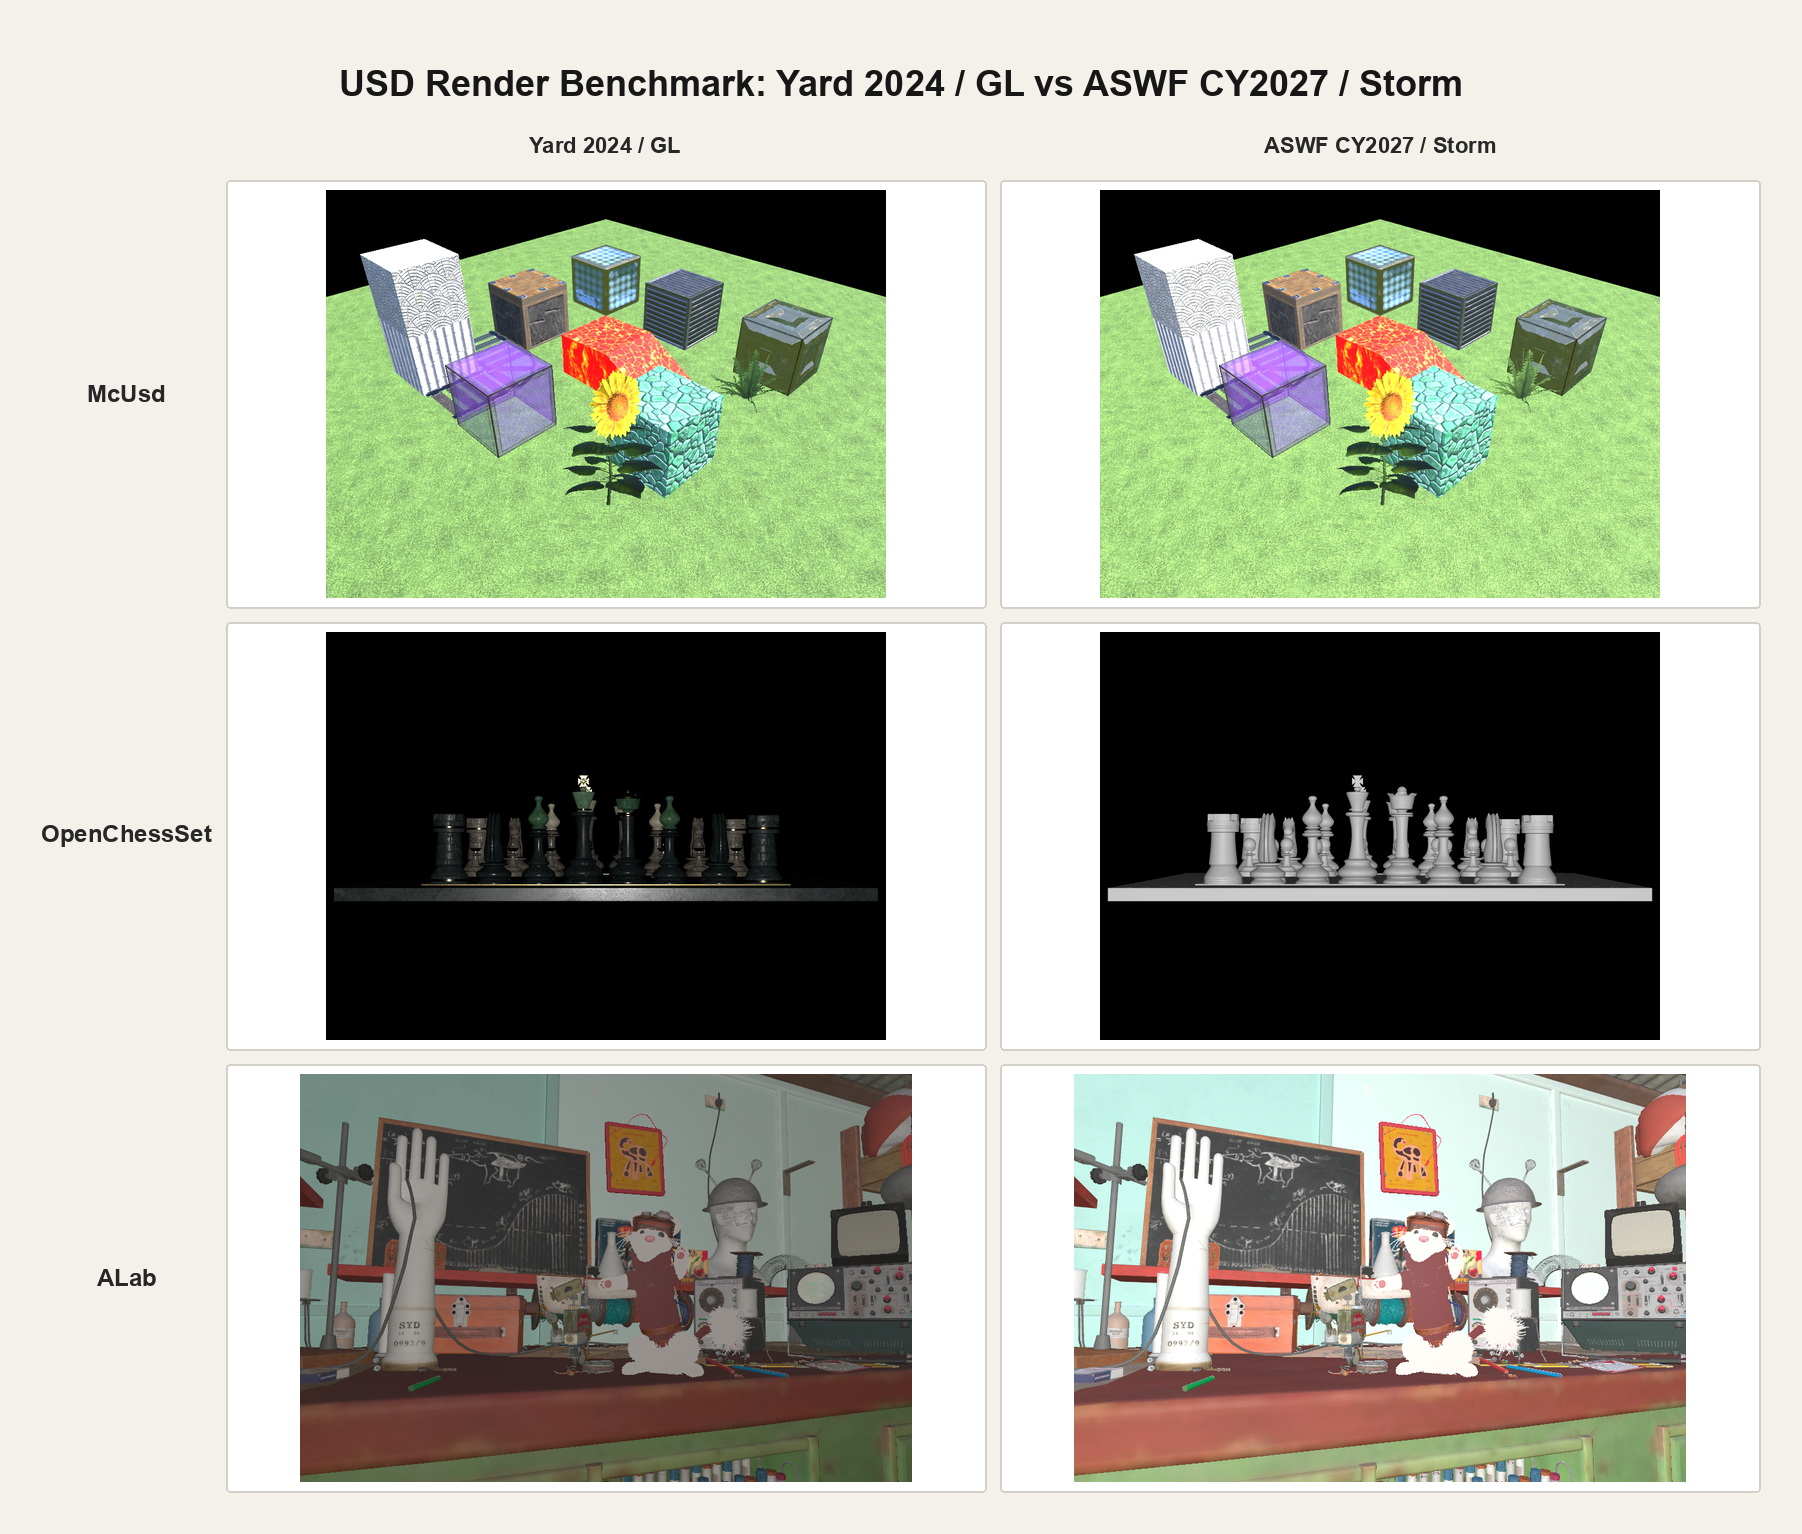
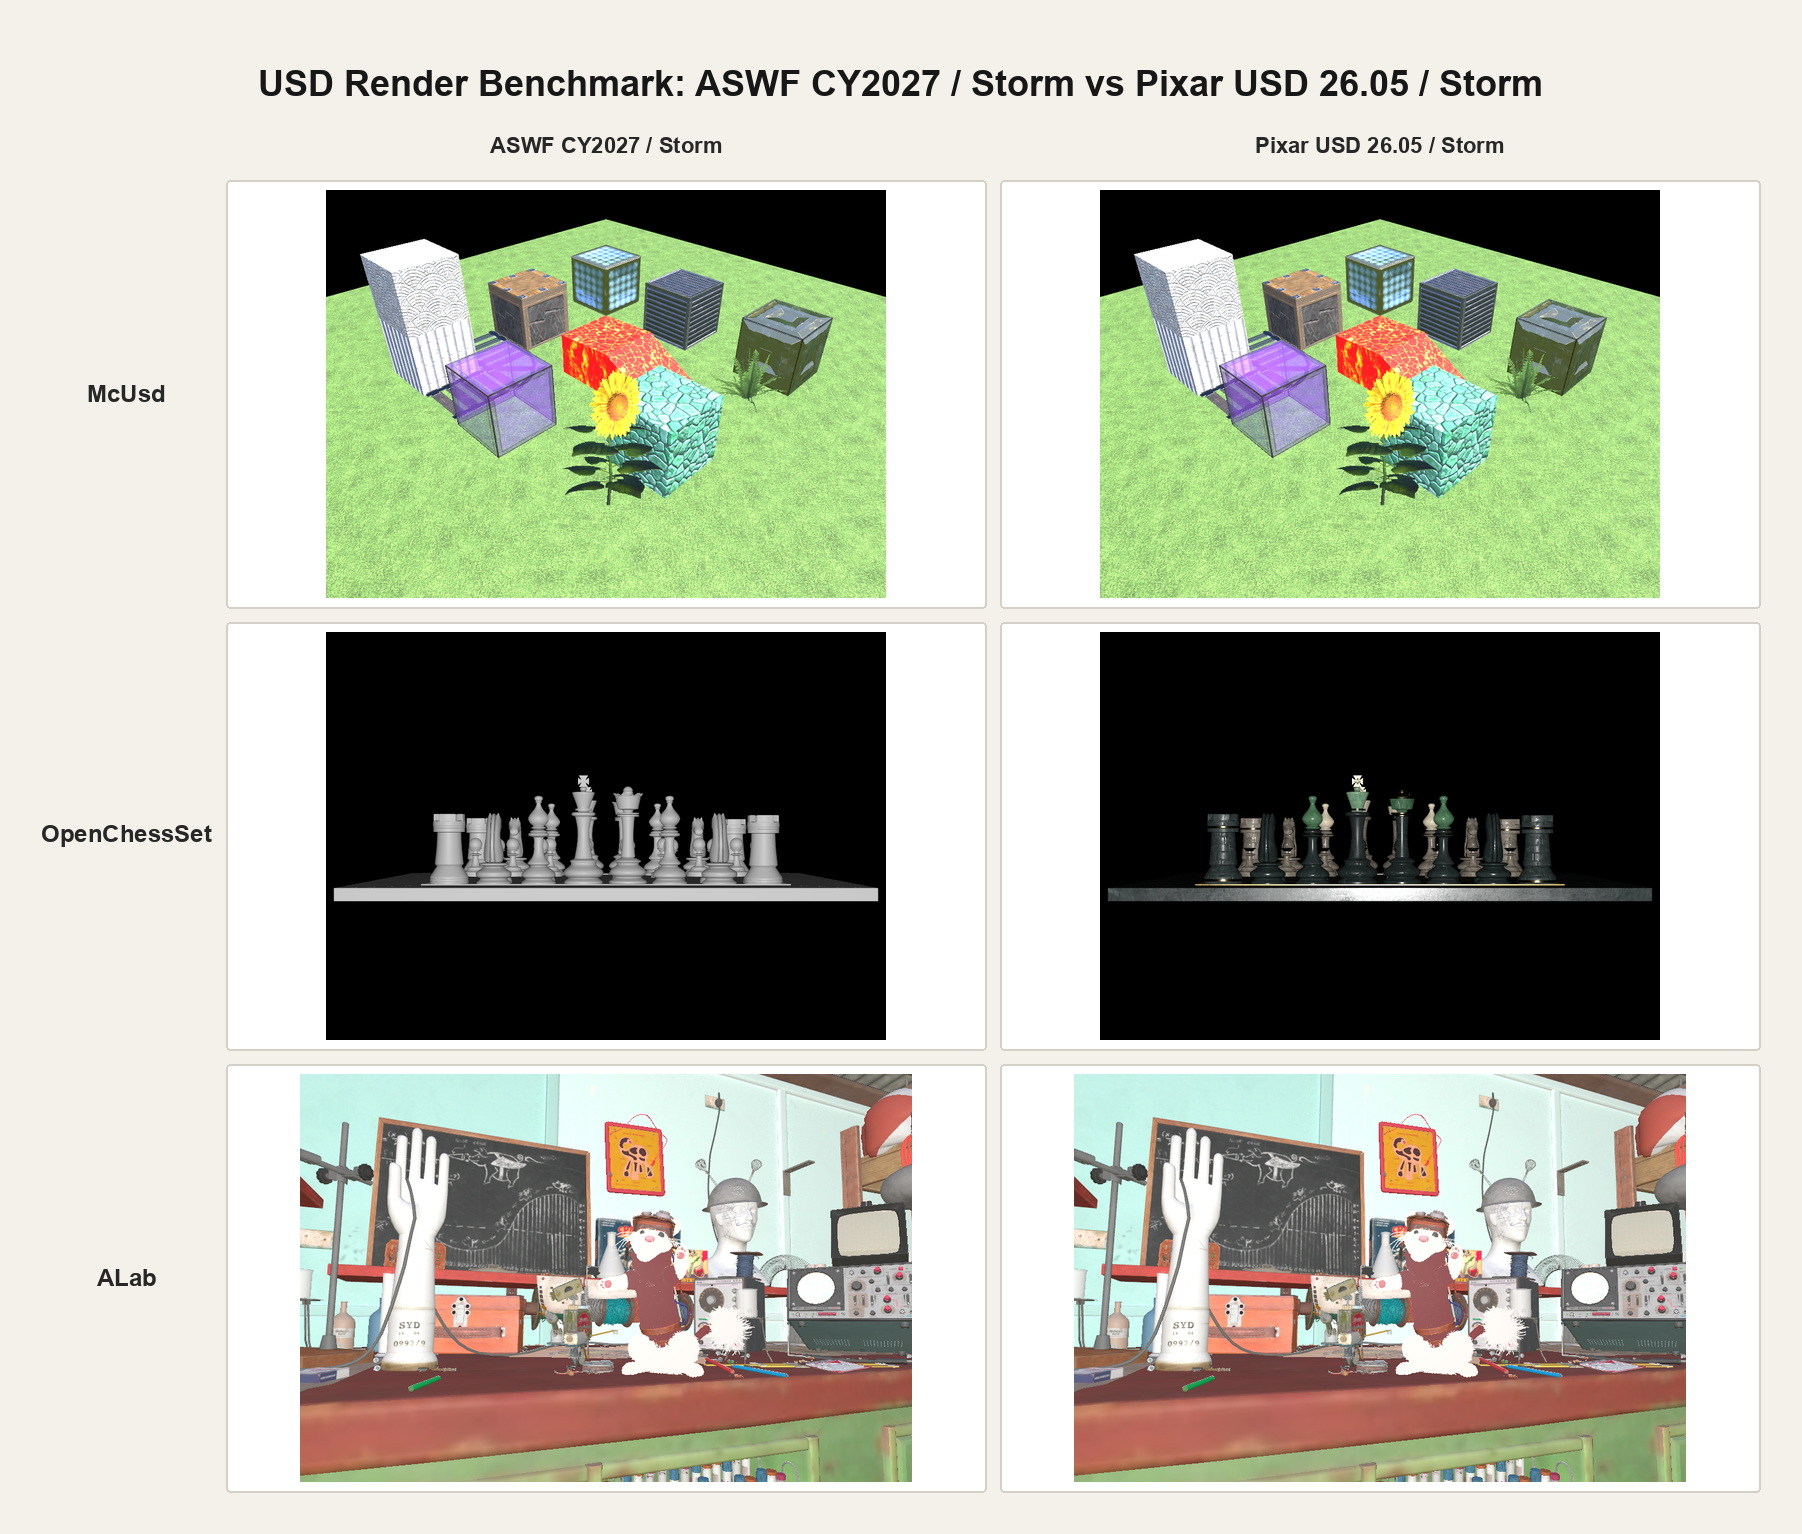
Publish ASWF CY2027 Storm benchmark with Pixar USD build

diff --git a/README.md b/README.md
@@ -3,13 +3,13 @@
 This branch records a partial Storm run using the ASWF CY2027
 environment and OpenUSD 26.05. It is not a complete CY2027 rerun of the original benchmark.
 
-![Yard 2024 / Storm compared with ASWF CY2027 / Storm](render_sheet.jpg)
+![ASWF CY2027 / Storm compared with Pixar USD 26.05 / Storm](render_sheet.jpg)
 
 ## Run configuration
 
 - Renderers: Storm
 - OpenUSD: 26.05
-- Container: `aswf/ci-vfxall:2027`
+- Container: `ghcr.io/nicolaspopravka/openusd-build-paths:pixar-cy2027-runtime-d97e11fc668c35d8418d446da2ce8cadcd48f0df@sha256:b93a122bb7c173e1336aa210868162c7076f090f188be157116d3d9ee5e747d2`
 - GPU: NVIDIA RTX PRO 4000 Blackwell, 24 GB
 - Driver: NVIDIA 580.167.08
 - OS: Rocky Linux 9.8

diff --git a/render_summary.md b/render_summary.md
@@ -2,8 +2,8 @@
 
 | Scene \ Renderer | Storm |
 |---|---|
-| McUsd | Failure<br>0:06.82<br>463712KB |
-| chess_set | Failure<br>0:09.91<br>461096KB |
-| entry | Failure<br>1:31.62<br>5502380KB |
+| McUsd | Success<br>0:06.53<br>424280KB |
+| chess_set | Success<br>0:28.35<br>1756056KB |
+| entry | Success<br>1:33.92<br>4868696KB |
 ## System Specs
 NVIDIA driver version 580.167.08 GPU: NVIDIA RTX PRO 4000 Blackwell with 24467MB Rocky Linux 9.8 (Blue Onyx), Linux kernel 6.8.0-124-generic
